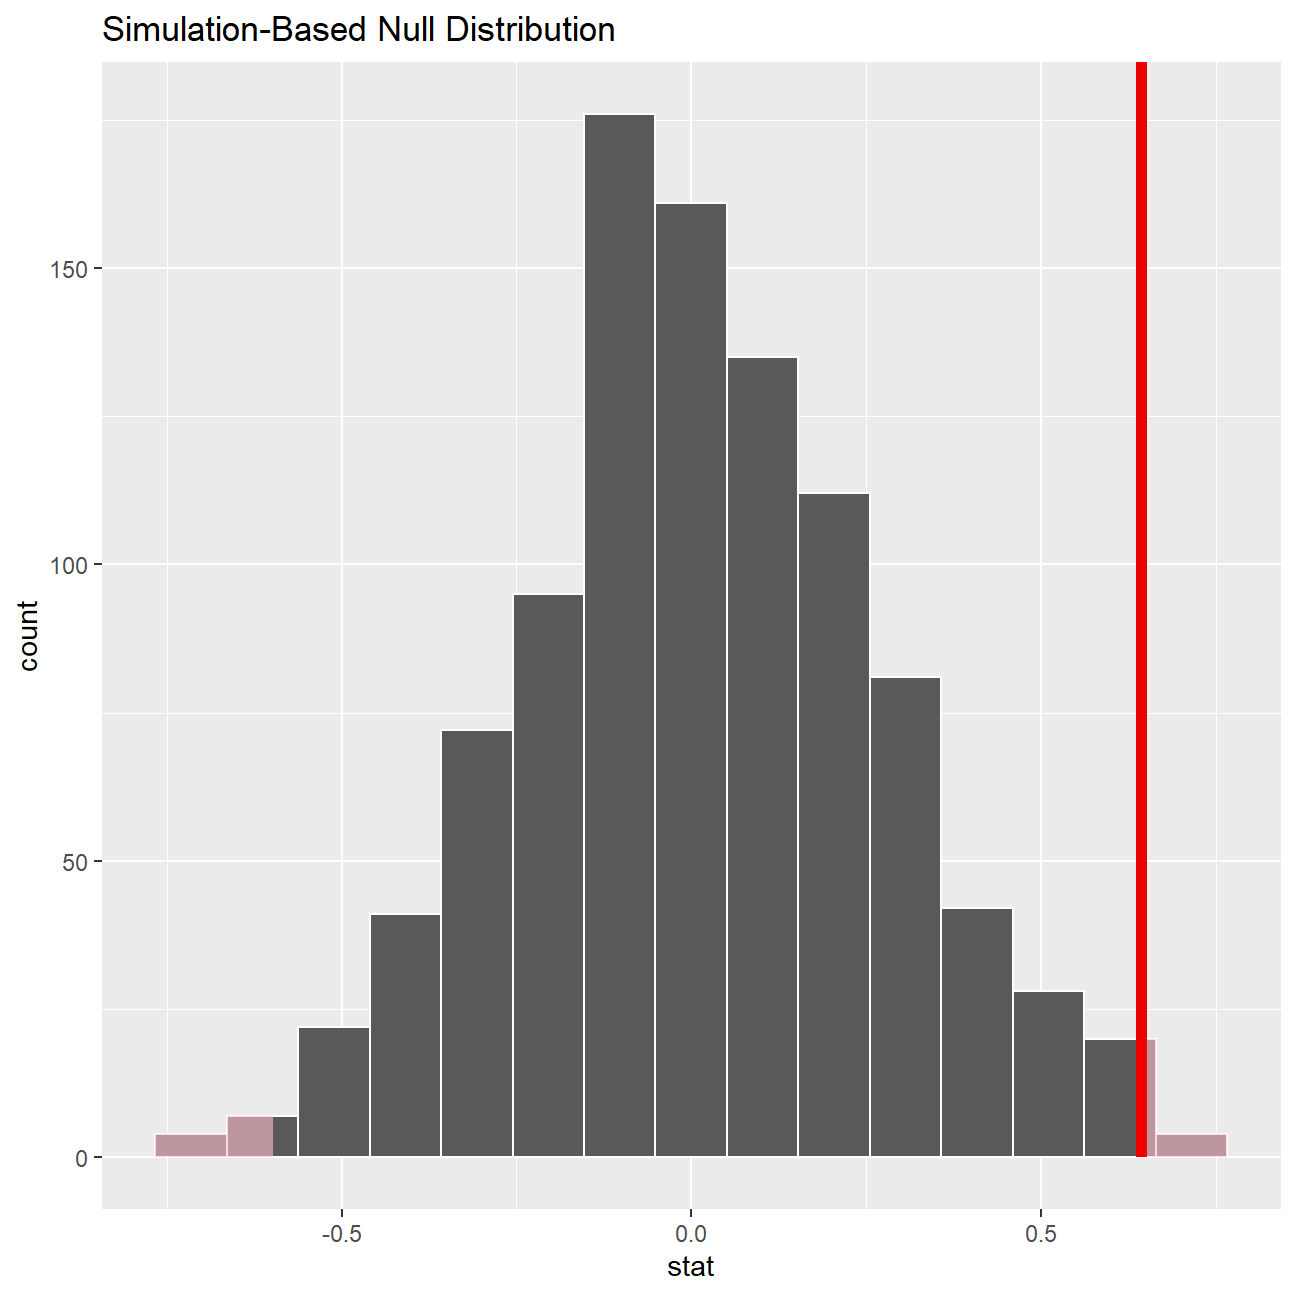
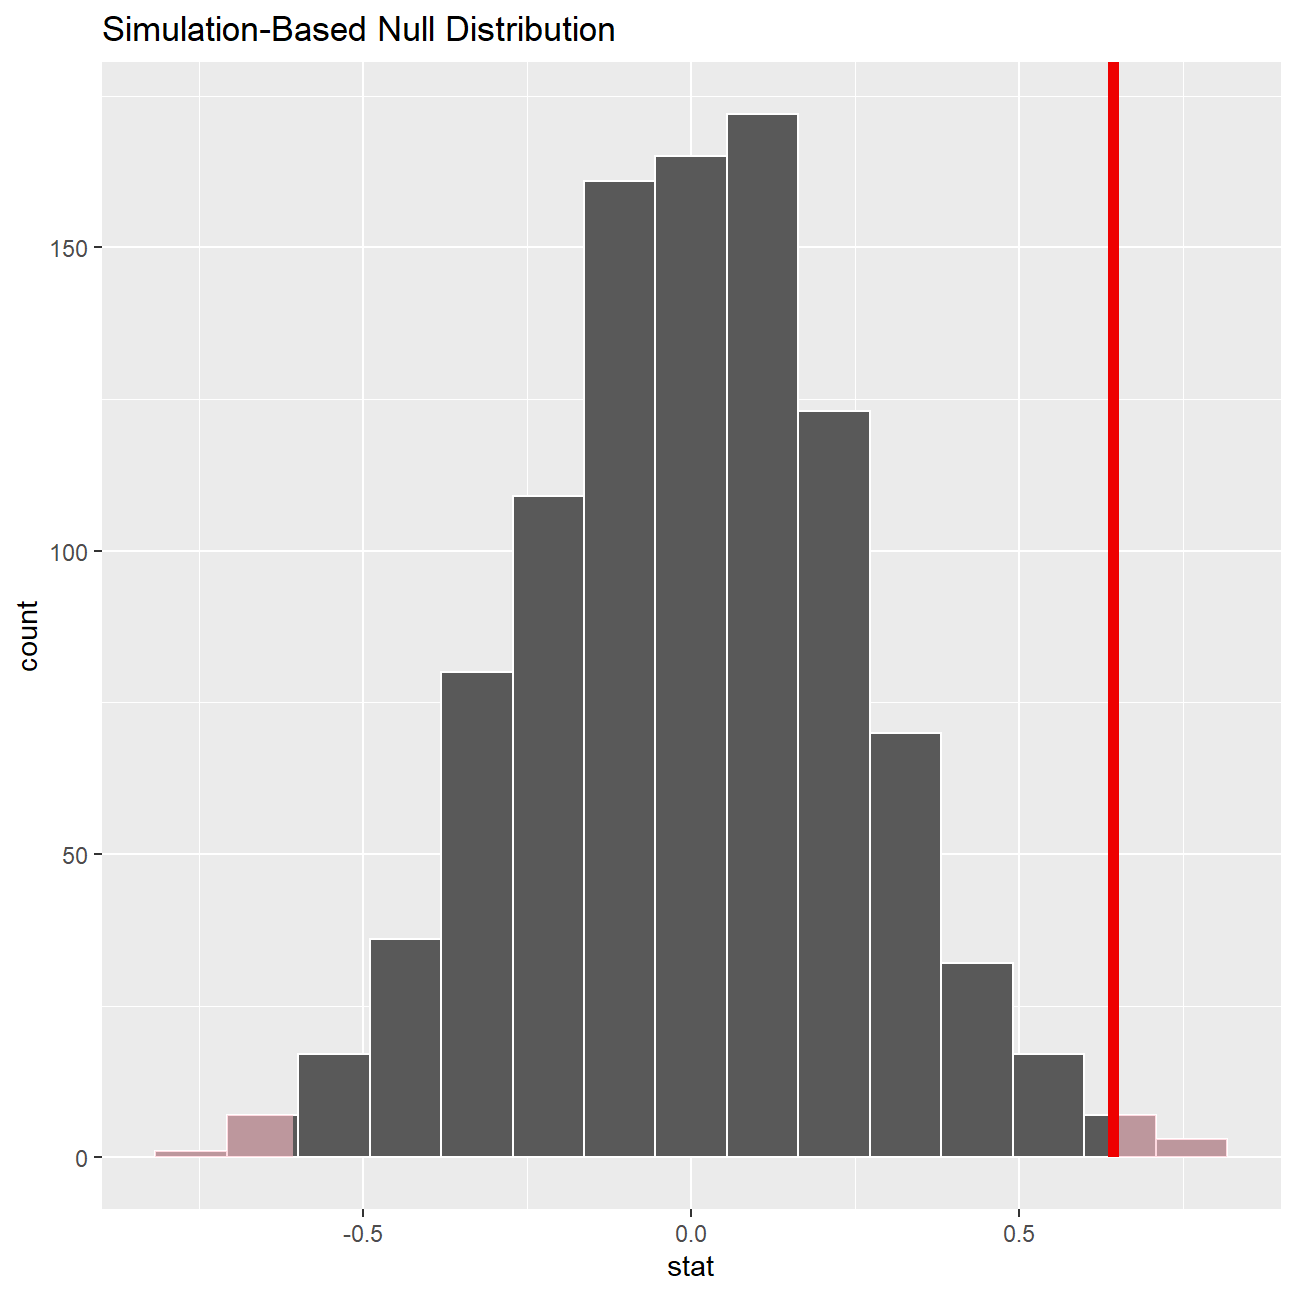
jk

diff --git a/content/projects/Project2/index.html b/content/projects/Project2/index.html
@@ -8,7 +8,10 @@ output: html_document
 <script src="index_files/header-attrs/header-attrs.js"></script>
 
 
-<p>Are the mean IMDB rating for Steven Spielberg and Tim Burton are the same or not? Let’s see…</p>
+<div id="are-the-mean-imdb-rating-for-steven-spielberg-and-tim-burton-are-the-same-or-not-lets-see" class="section level1">
+<h1>Are the mean IMDB rating for Steven Spielberg and Tim Burton are the same or not? Let’s see…</h1>
+<div id="loading-the-data" class="section level2">
+<h2>Loading the data</h2>
 <pre class="r"><code>movies &lt;- read_csv(here::here(&quot;data&quot;, &quot;movies.csv&quot;))
 glimpse(movies)</code></pre>
 <pre><code>## Rows: 2,961
@@ -24,6 +27,9 @@ glimpse(movies)</code></pre>
 ## $ votes               &lt;dbl&gt; 886204, 793059, 418214, 995415, 1676169, 534658...
 ## $ reviews             &lt;dbl&gt; 3777, 2843, 1934, 2425, 5312, 3917, 1752, 1752,...
 ## $ rating              &lt;dbl&gt; 7.9, 7.7, 7.0, 8.1, 9.0, 6.5, 8.7, 7.5, 8.5, 7....</code></pre>
+</div>
+<div id="summarizing-it-and-plotting-it" class="section level2">
+<h2>Summarizing it and plotting it</h2>
 <pre class="r"><code>summary_data &lt;- movies %&gt;% 
   group_by(director) %&gt;% 
   filter(director %in% c(&quot;Steven Spielberg&quot;, &quot;Tim Burton&quot;)) %&gt;% 
@@ -56,6 +62,9 @@ summary_data</code></pre>
   geom_text(aes(label=round(mean,2), vjust =-2))</code></pre>
 <p><img src="index_files/figure-html/intervals_graph-1.png" width="648" style="display: block; margin: auto;" />
 I have already calculated the confidence intervals for the mean ratings of these two directors and as you can see they overlap.</p>
+</div>
+<div id="running-the-hypotesis-tests" class="section level2">
+<h2>Running the hypotesis tests</h2>
 <pre class="r"><code>#NULL hypothesis : Steven Spielberg&#39;s mean IMDB rating = Tim Burton&#39;s mean IMDB rating
 
 movies &lt;- movies %&gt;% 
@@ -102,5 +111,7 @@ null_dist %&gt;% visualize() +
 <pre><code>## # A tibble: 1 x 1
 ##   p_value
 ##     &lt;dbl&gt;
-## 1   0.016</code></pre>
+## 1   0.012</code></pre>
 <p>Therefore, simulating from a null distribution with an infer package and t-test also show that the p-value is below 5%, indicating we can reject the null hypothesis. Tim Burton and Steven Spielberg are 95% unlikely to have the same mean IMDB rating.</p>
+</div>
+</div>
